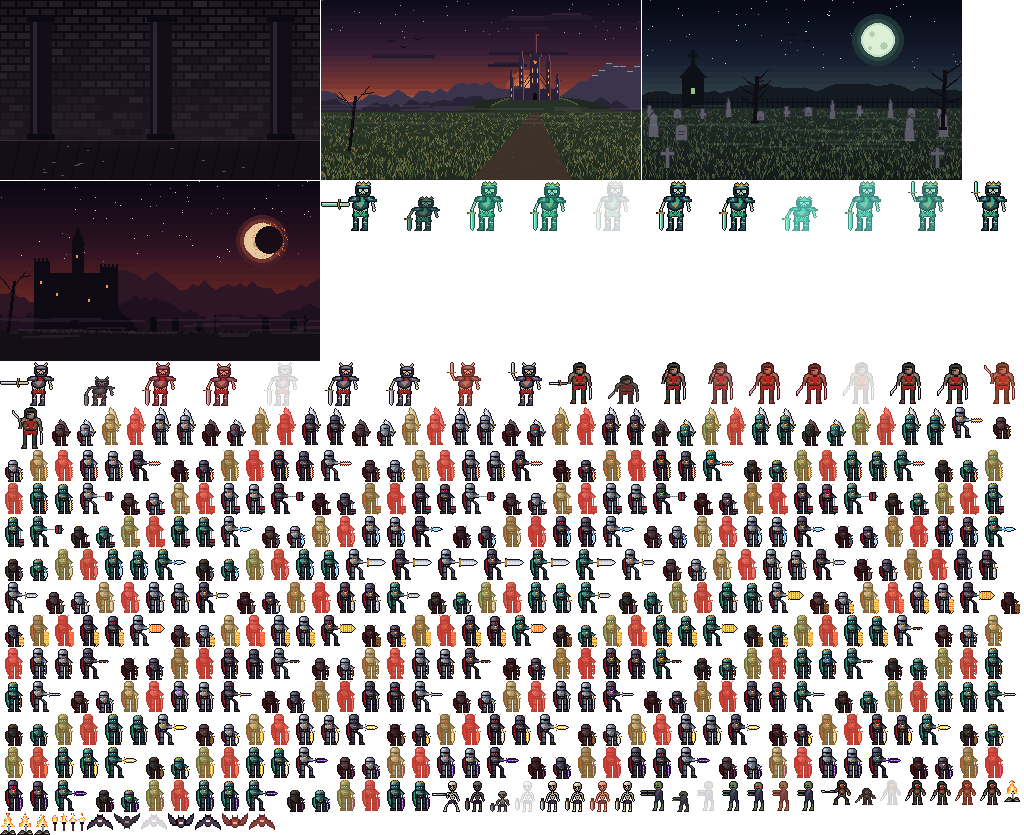
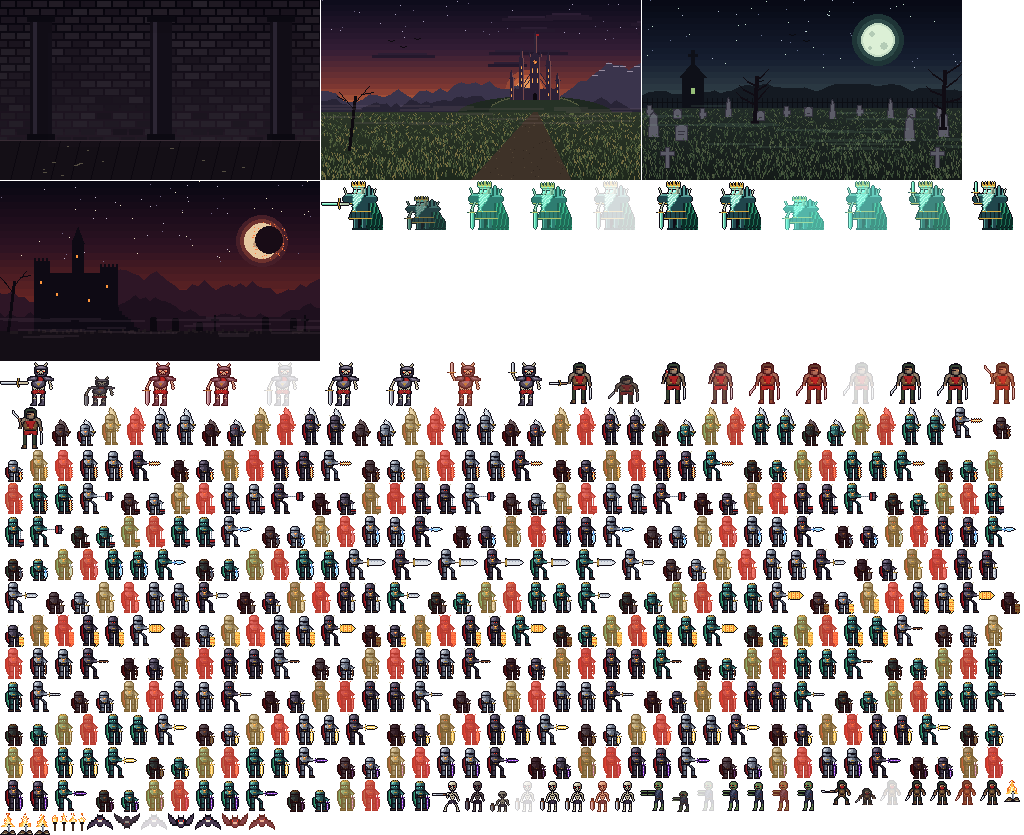
Unique Wraith King model: tall crown, ghostly beard, horned pauldrons, cape
Drawn from scratch instead of recolouring the Bone Knight.

Claude-Session: https://claude.ai/code/session_011mW4u7Ce1C3wwPLST6Z2ZA

Changed region(s): [[0.3125, 0.218, 1.0, 0.2802]]

diff --git a/fitness_rpg/game/art.py b/fitness_rpg/game/art.py
@@ -1304,34 +1304,147 @@ BAT_DOWN = [
 BAT_DUP_ROWS = (2, 3, 5, 6, 7)
 BAT_DUP_COLS = (2, 3, 6, 8, 9, 11, 14, 15)
 
-# Король-Призрак: латы и корона, призрачное пламя бирюзового цвета (по мотивам королей-нежити)
+# Король-Призрак: собственная модель — высокая корона, череп с горящими глазницами,
+# призрачная борода до пояса, рогатые наплечники, шипастый воротник и рваный плащ.
 WRAITH_PALETTE = dict(
     PALETTE,
-    a=(18, 40, 44), A=(34, 80, 84), h=(86, 166, 160),
-    c=(16, 70, 54), C=(46, 170, 120),
-    e=(120, 255, 230), E=(210, 255, 245),
-    O=(170, 196, 170), W=(214, 236, 214), o=(96, 120, 100),
-    w=(176, 255, 226), l=(90, 200, 160),
+    a=(16, 34, 40), A=(32, 70, 76), h=(84, 156, 150),          # латы цвета старой бирюзы
+    c=(10, 46, 40), C=(30, 110, 84), q=(50, 160, 120),          # призрачный плащ
+    e=(120, 255, 230), E=(214, 255, 248),                       # огонь в глазницах и самоцветы
+    O=(176, 196, 168), W=(222, 236, 210), o=(104, 122, 104),    # кость черепа
+    y=(226, 255, 246), Y=(140, 222, 200), z=(62, 140, 128),     # призрачная борода
+    g=(214, 168, 64), G=(255, 226, 120),                        # золото короны
+    w=(176, 255, 226), l=(90, 200, 160),                        # клинок из призрачного пламени
 )
-WRAITH_CROWN = [  # поверх рогов, по столбцам 19..31 тела
-    "..k...k...k..",
-    ".kgk.kgk.kgk.",
-    "kgggkgggkgggk",
-    "kgegggegggegk",
-]
-WRAITH_DUP_ROWS = (8, 15, 21, 28, 34, 40)
-WRAITH_DUP_COLS = (BOSS_X + 20, BOSS_X + 27)
+WRAITH_W, WRAITH_H = 44, 44
+WRAITH_DUP_ROWS = (9, 17, 24, 31, 37)
+WRAITH_DUP_COLS = (BOSS_X + 21, BOSS_X + 30)
+
+
+def wraith_body():
+    """Король-Призрак (смотрит влево): высокая корона, череп с бородой до пояса, рогатые
+    наплечники, шипастый воротник и рваный плащ до земли. Контур добавляется автоматически."""
+    W, H = WRAITH_W, WRAITH_H
+    g = [["."] * W for _ in range(H)]
+
+    def px(x, y, ch):
+        if 0 <= x < W and 0 <= y < H:
+            g[y][x] = ch
+
+    def ellipse(cx, cy, rx, ry, ch, top=None):
+        for y in range(cy - ry, cy + ry + 1):
+            for x in range(cx - rx, cx + rx + 1):
+                if ((x - cx) / (rx + 0.5)) ** 2 + ((y - cy) / (ry + 0.5)) ** 2 <= 1:
+                    px(x, y, top if top and y <= cy - ry + 1 else ch)
+
+    # 1. рваный плащ за спиной (правее тела), складки и рваный низ
+    for y in range(14, H):
+        x0 = 27 - (y - 14) // 5
+        x1 = min(W - 1, 33 + (y - 14) // 2)
+        rag = (y >= H - 4) and ((y * 7) % 3 != 0)
+        for x in range(x0, x1 + 1):
+            if rag and (x * 5 + y) % 4 == 0:
+                continue
+            px(x, y, "C" if (x - x0) % 4 == 1 else "q" if (x - x0) % 4 == 2 and y < 30 else "c")
+    # 2. шипастый воротник за головой
+    for i, (bx, h) in enumerate(((27, 8), (30, 10), (33, 7))):
+        for k in range(h):
+            for x in range(bx - (h - k) // 3, bx + (h - k) // 3 + 1):
+                px(x, 14 - k, "h" if x == bx and k > 1 else "a")
+    # 3. ноги в латных сапогах
+    for lx in (17, 24):
+        for y in range(33, 42):
+            for x in range(lx, lx + 4):
+                px(x, y, "h" if x == lx else "A")
+        for x in range(lx - 1, lx + 5):
+            px(x, 42, "a")
+            px(x, 43, "a")
+    # 4. латная юбка с золотой каймой
+    for y in range(28, 34):
+        for x in range(14 - (y - 28) // 2, 32 + (y - 28) // 3):
+            px(x, y, "g" if y == 33 else "a" if (x - 14) % 4 == 0 else "A")
+    # 5. кираса
+    for y in range(15, 28):
+        for x in range(16, 31):
+            px(x, y, "h" if x in (17, 18) else "a" if x == 30 else "A")
+    for x in range(15, 32):  # пояс с самоцветом
+        px(x, 27, "g")
+    px(19, 27, "e")
+    # 6. дальний наплечник с рогом
+    ellipse(32, 16, 5, 3, "A", top="h")
+    for k in range(5):
+        px(34 + k // 2, 12 - k, "W" if k > 2 else "O")
+    # 7. ближний наплечник: крупный, с рогом и золотым ободом
+    ellipse(13, 16, 7, 4, "A", top="h")
+    for x in range(7, 20):
+        px(x, 20, "g")
+    for k in range(6):
+        px(9 - k // 2, 12 - k, "W" if k > 3 else "O")
+    # 8. череп
+    ellipse(21, 9, 5, 4, "O")
+    for x, y in ((17, 6), (17, 7), (18, 6), (16, 8)):  # блик на лбу
+        px(x, y, "W")
+    for y in range(7, 12):  # тень на затылке
+        px(25, y, "o")
+        px(24, y, "o" if y > 8 else "O")
+    for x in range(16, 26):  # тень от короны
+        px(x, 6, "o")
+    for sx in (16, 20):  # глубокие глазницы с призрачным огнём
+        for x in (sx, sx + 1, sx + 2):
+            px(x, 8, "k")
+        px(sx, 9, "k")
+        px(sx + 1, 9, "E")
+        px(sx + 2, 9, "e")
+        px(sx + 1, 10, "e")
+        px(sx + 1, 7, "e")  # язычок пламени над глазом
+    px(19, 11, "k")  # нос
+    px(18, 11, "o")
+    for x in range(17, 24):  # челюсть
+        px(x, 12, "o")
+    # 9. борода: от челюсти до пояса, развевается вперёд (влево), светлые пряди
+    for y in range(12, 27):
+        t = (y - 12) / 14
+        cx = 20 - int(t * 4)
+        half = max(1, int(5 * (1 - t) + 1))
+        for x in range(cx - half, cx + half + 1):
+            edge = x in (cx - half, cx + half)
+            strand = (x + y) % 3 == 0
+            px(x, y, "z" if edge else "y" if strand else "Y")
+    for x in range(17, 24, 2):  # усы над бородой
+        px(x, 12, "Y")
+    # 10. высокая корона: обод с самоцветами и пять зубцов
+    for x in range(15, 27):
+        px(x, 4, "g")
+        px(x, 5, "G" if x % 3 else "e")
+    for i, sx in enumerate((15, 18, 21, 24, 26)):
+        h = 4 if i == 2 else 3
+        for k in range(1, h + 1):
+            px(sx, 4 - k, "G" if k == h else "g")
+        if i != 4:
+            px(sx + 1, 3, "g")
+    # контур: пустая клетка рядом с закрашенной становится чёрной
+    out = [row[:] for row in g]
+    for y in range(H):
+        for x in range(W):
+            if g[y][x] == "." and any(0 <= x + dx < W and 0 <= y + dy < H and g[y + dy][x + dx] not in ".k"
+                                      for dx, dy in ((1, 0), (-1, 0), (0, 1), (0, -1))):
+                out[y][x] = "k"
+    return ["".join(r) for r in out]
 
 
 def wraith_map(arm):
-    rows = [list(r) for r in boss_map(arm)]
-    for y in range(4):  # убираем рога и ставим корону
-        for x in range(BOSS_X + 17, BOSS_X + 33):
-            if rows[y][x] in "kOW":
-                rows[y][x] = "."
-        for i, ch in enumerate(WRAITH_CROWN[y]):
+    """Тело Короля-Призрака + рука с мечом (те же позы, что у Костяного Рыцаря), крупнее."""
+    body = wraith_body()
+    W = BOSS_X + WRAITH_W
+    rows = [list("." * W) for _ in range(WRAITH_H)]
+    for y, row in enumerate(body):
+        for x, ch in enumerate(row):
             if ch != ".":
-                rows[y][BOSS_X + 19 + i] = ch
+                rows[y][BOSS_X + x] = ch
+    for y, (x0, seg) in arm.items():
+        for i, ch in enumerate(seg):
+            if ch != "." and 0 <= x0 + i < W:
+                rows[y][x0 + i] = ch
     return _enlarge(["".join(r) for r in rows], WRAITH_DUP_ROWS, WRAITH_DUP_COLS)
 
 
